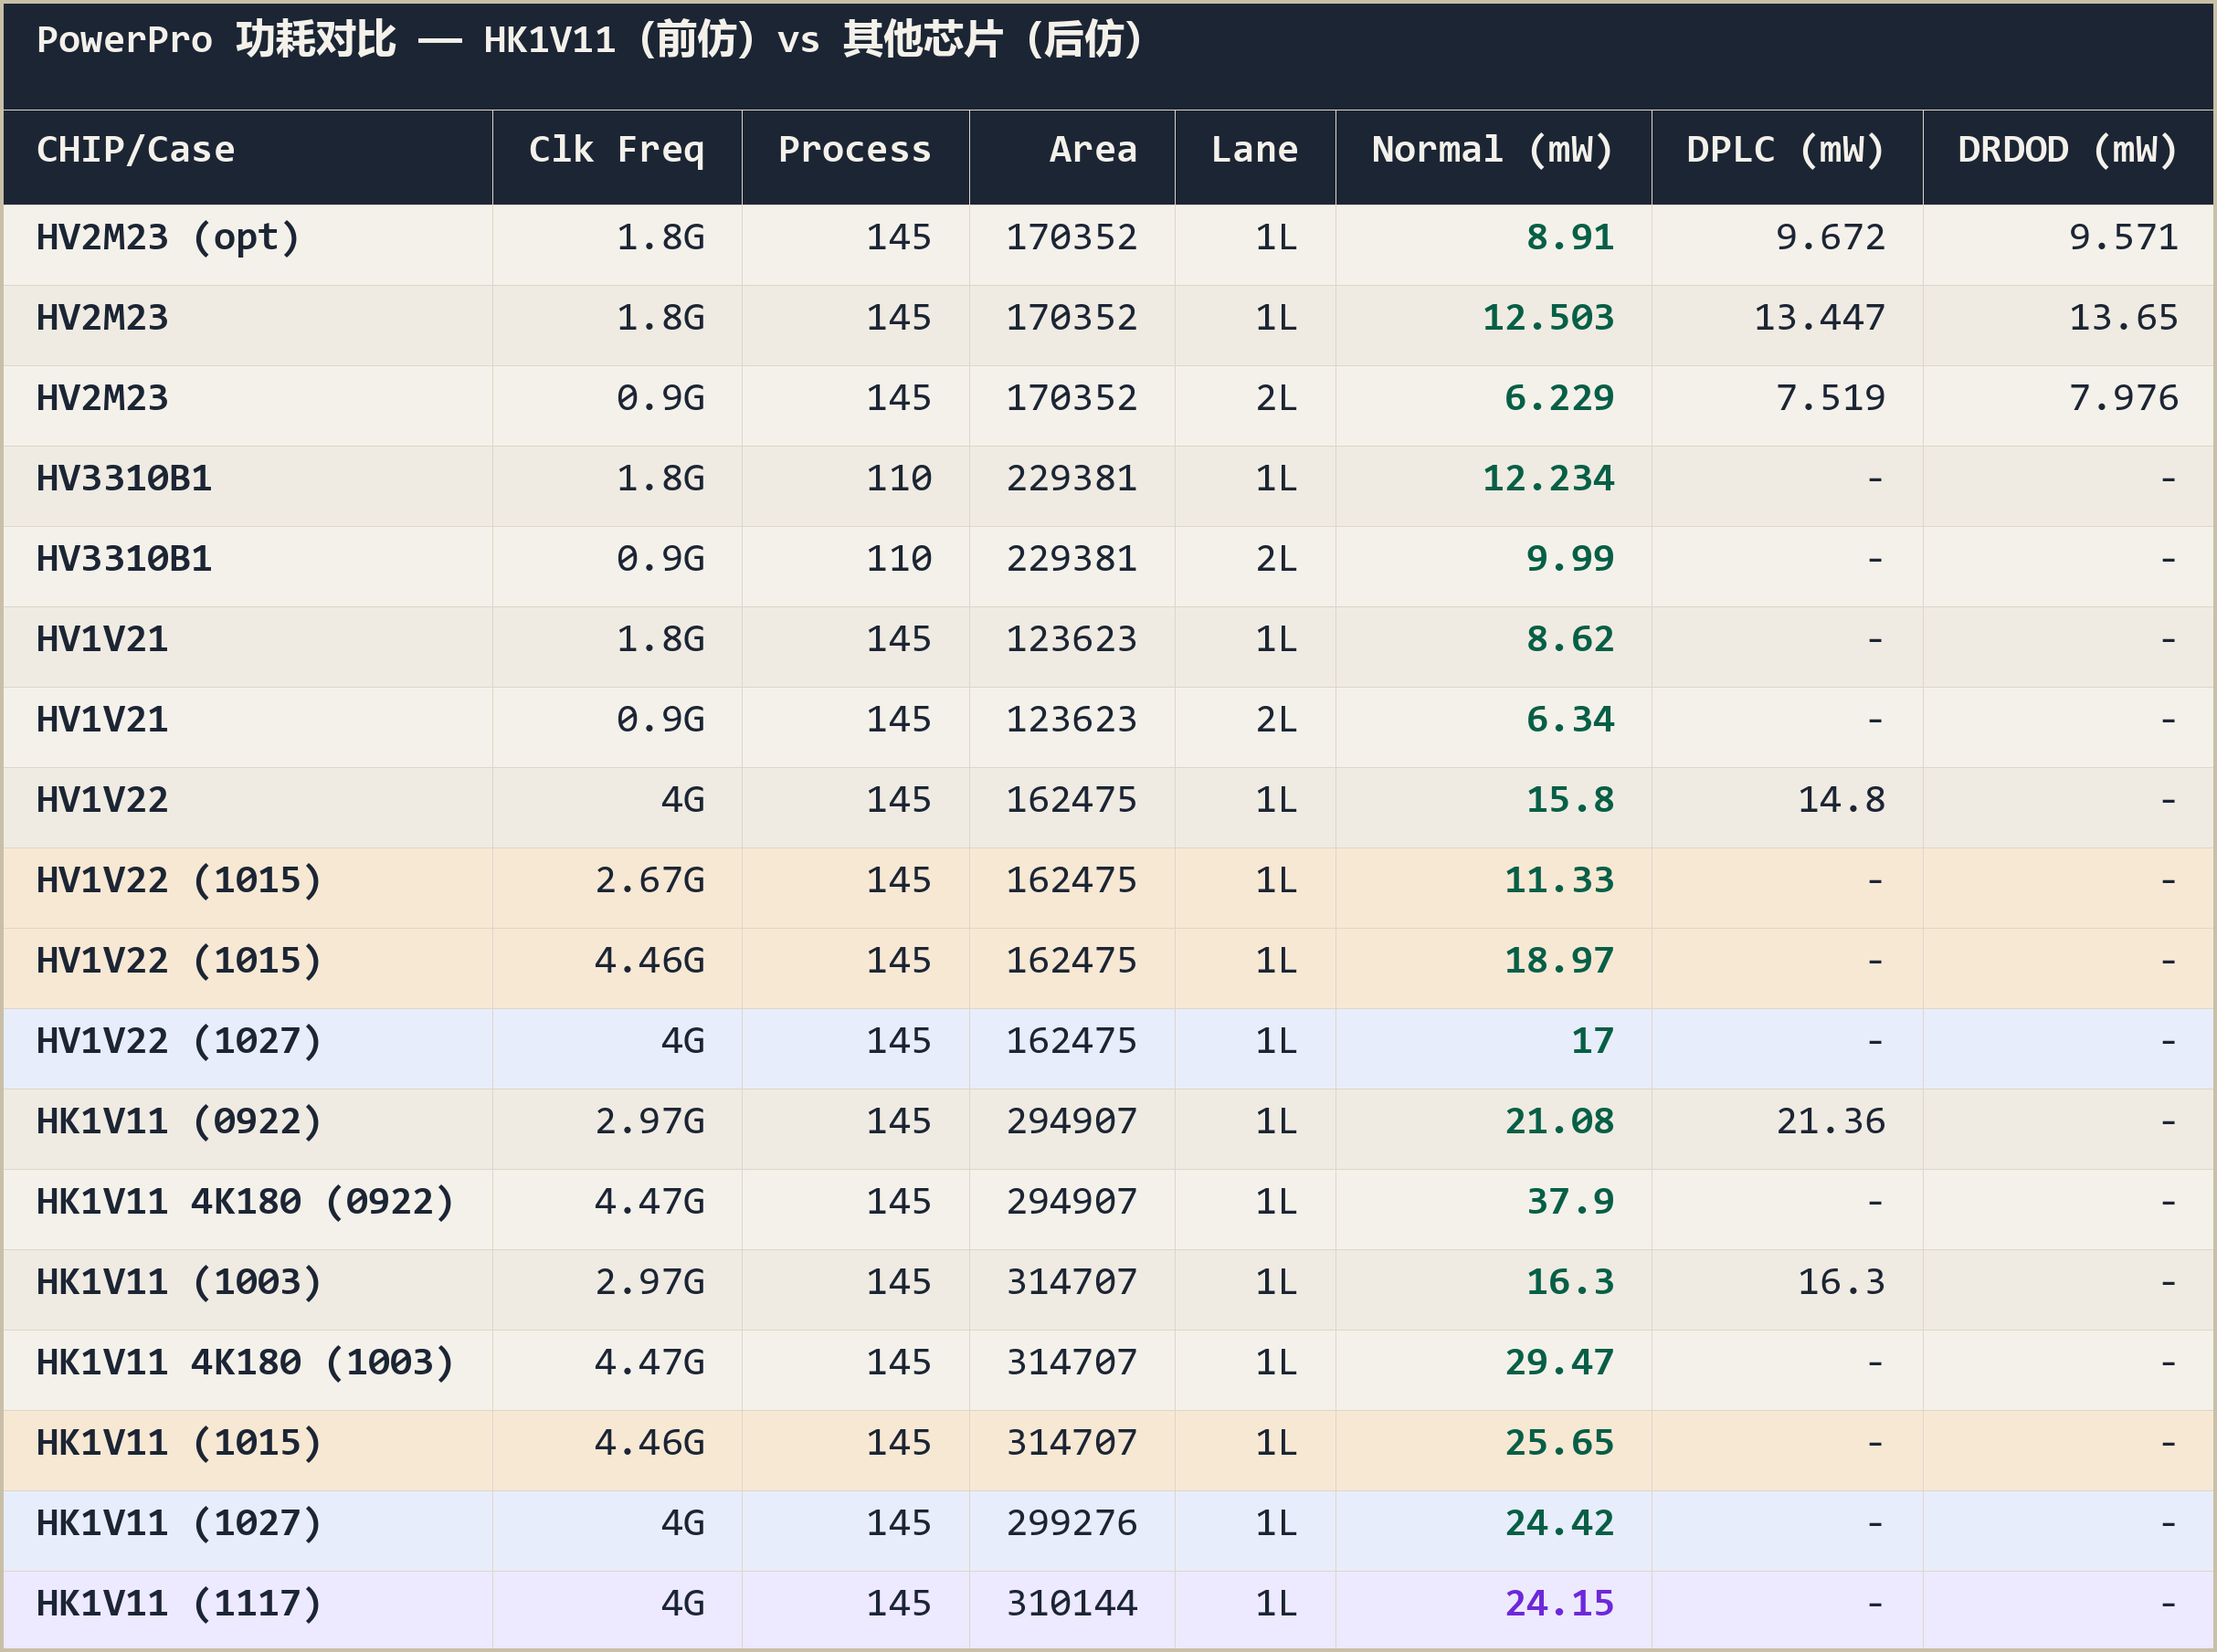
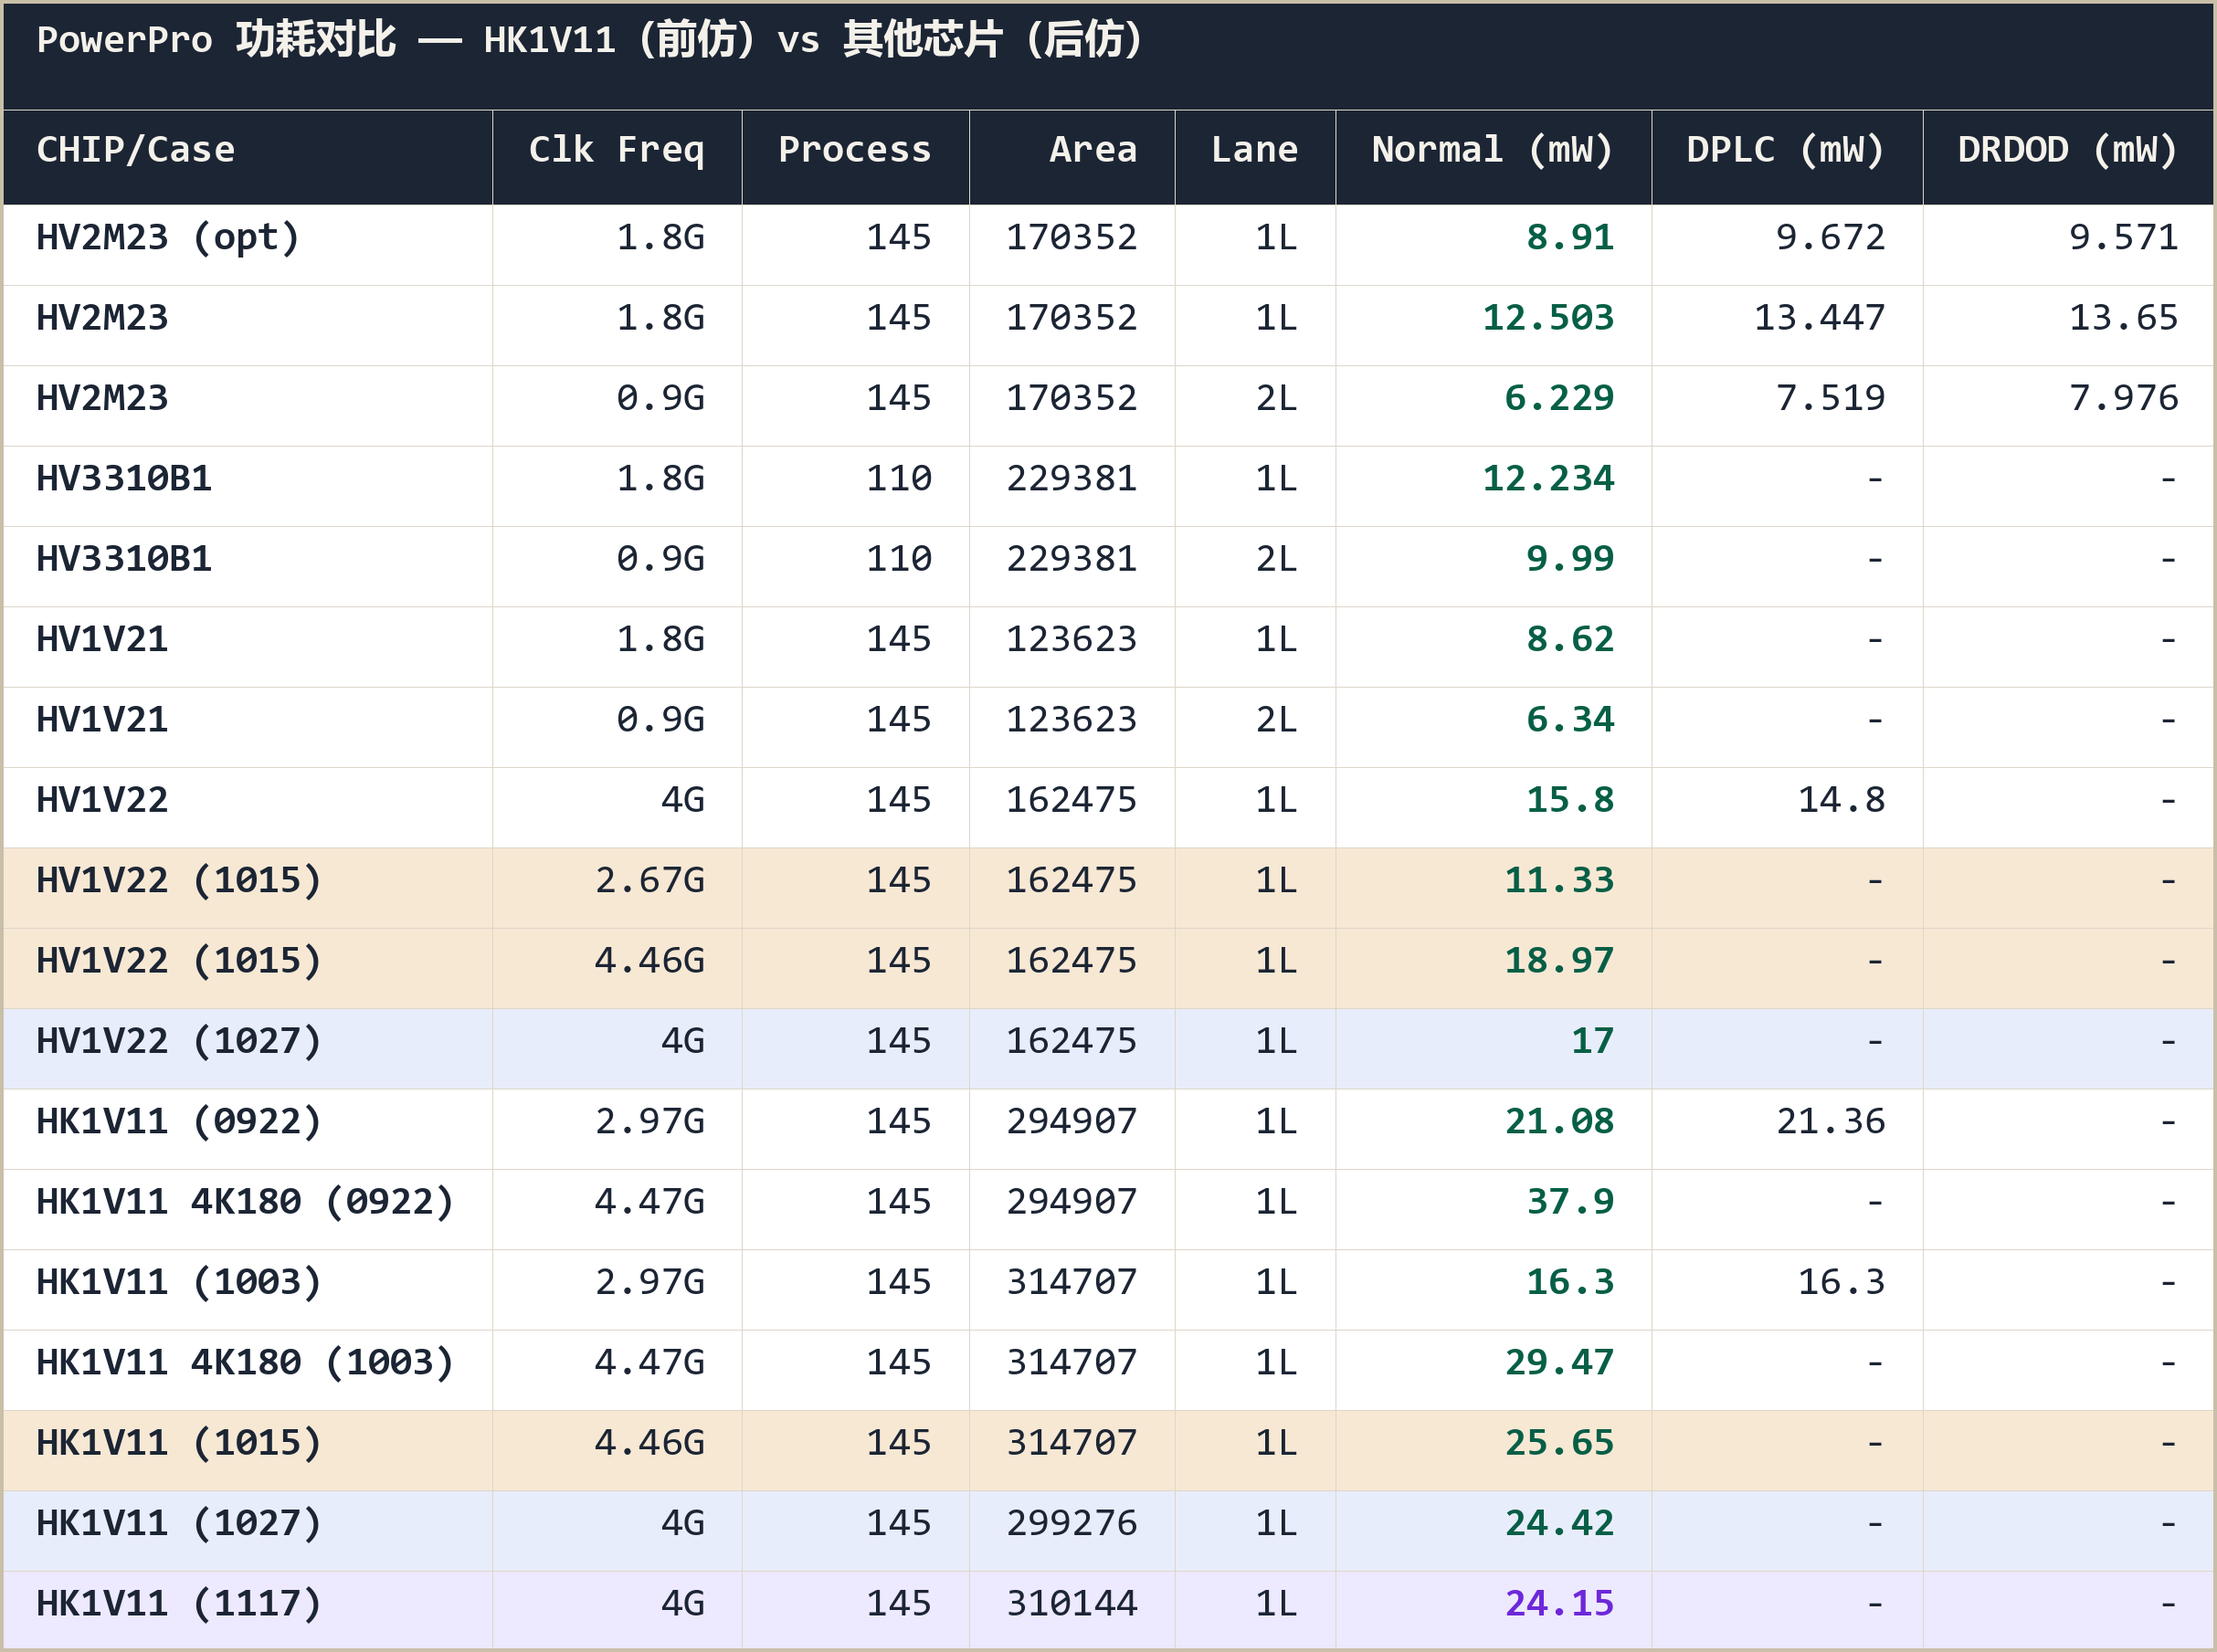
refresh 1117 功耗图 to 白底终版 (archive 1117v0)

diff --git a/index.html b/index.html
@@ -218,7 +218,7 @@
     <aside class="sidebar">
       <div class="sidebar-header">
         <h1>每日记录</h1>
-        <div class="meta">生成时间: 2026-11-17 11:12:03</div>
+        <div class="meta">生成时间: 2026-11-17 11:30:19</div>
       </div>
       <div class="search-box">
         <input type="text" id="searchInput" placeholder="搜索文件名..." oninput="filterFiles(this.value)">
